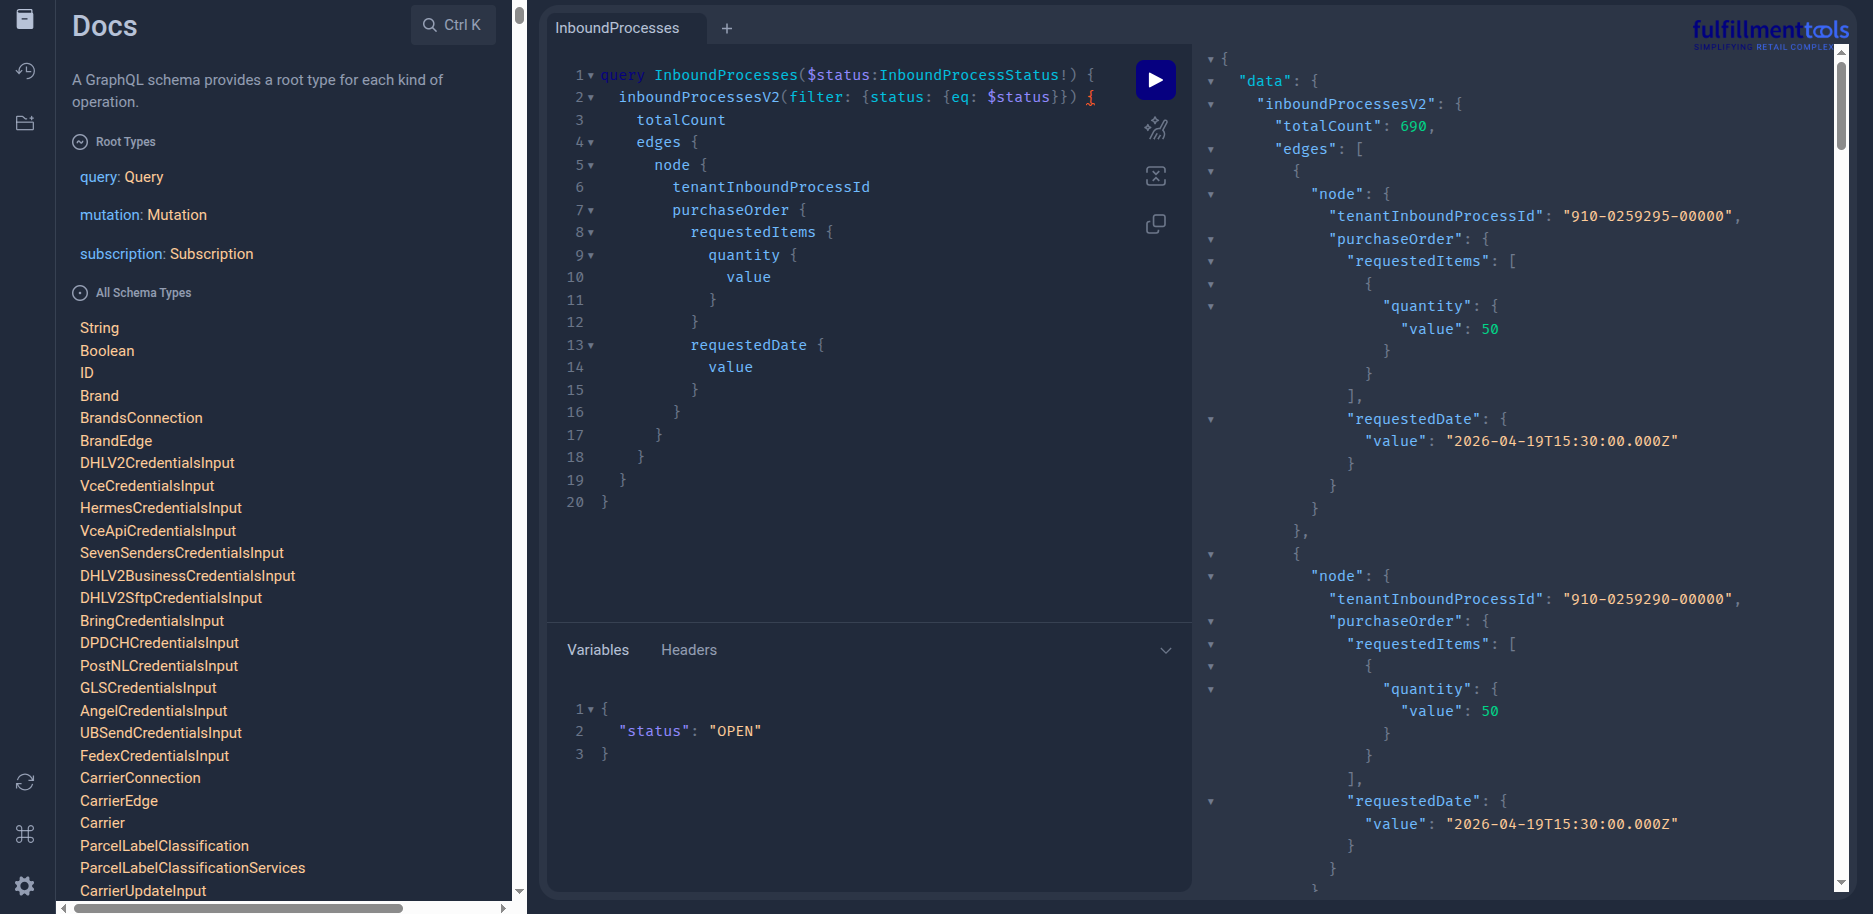
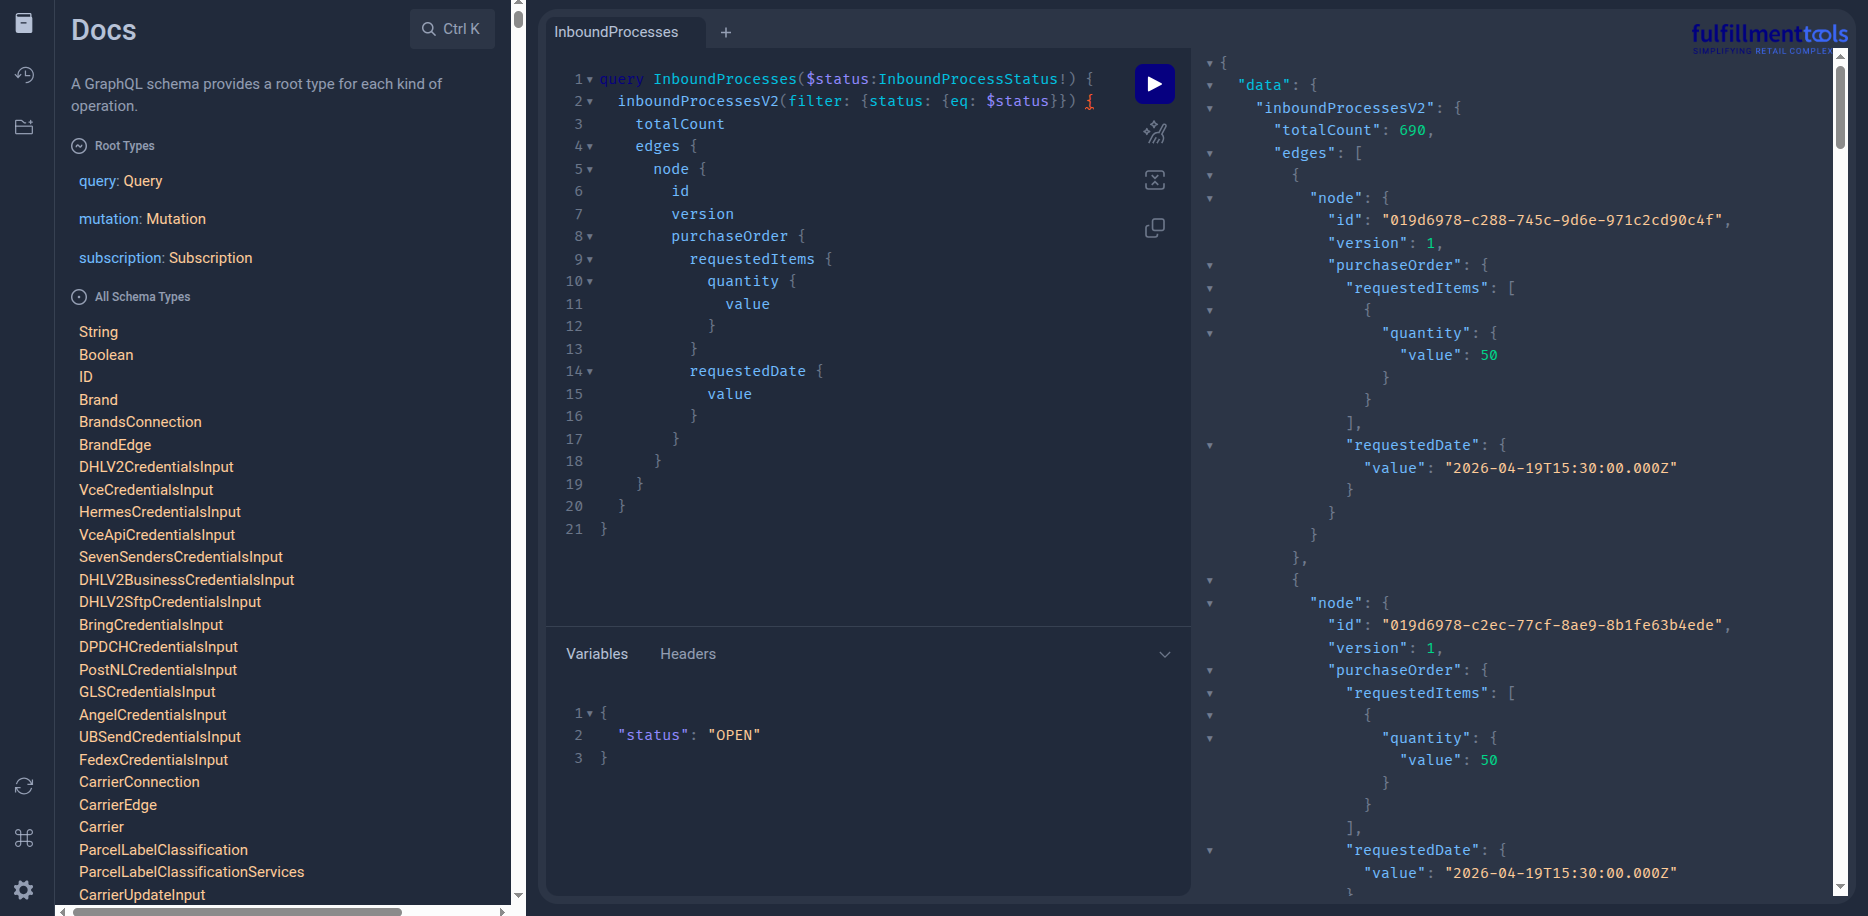
[Kotlin-GraphQL] Adjust query and screenshot

diff --git a/content/tutorials/fulfillmenttools-kotlin-graphql-client/index.md b/content/tutorials/fulfillmenttools-kotlin-graphql-client/index.md
@@ -102,7 +102,8 @@ query InboundProcesses($status:InboundProcessStatus!) {
     totalCount
     edges {
       node {
-        tenantInboundProcessId
+        id
+        version
         purchaseOrder {
           requestedItems {
             quantity {